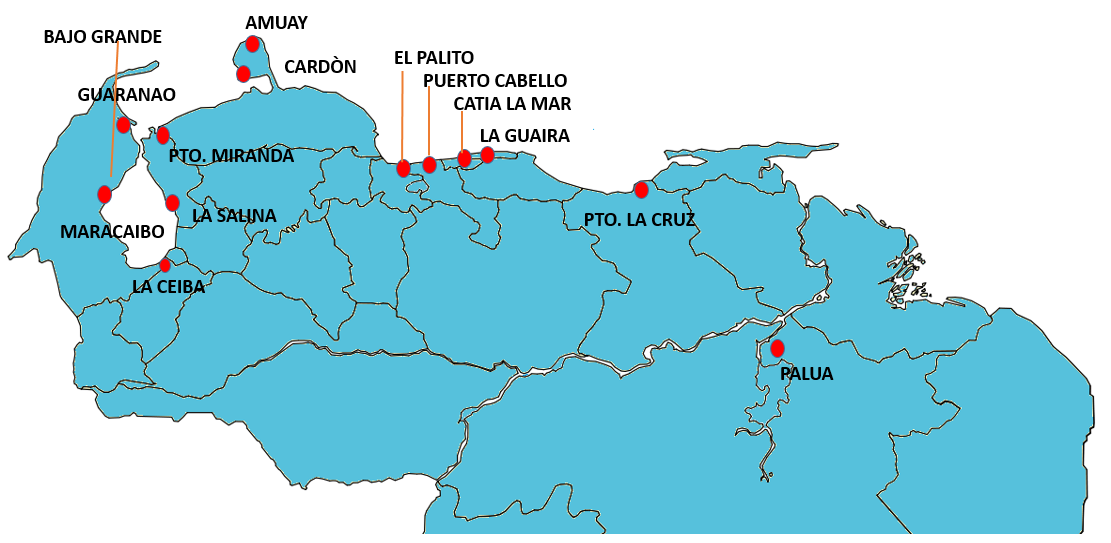
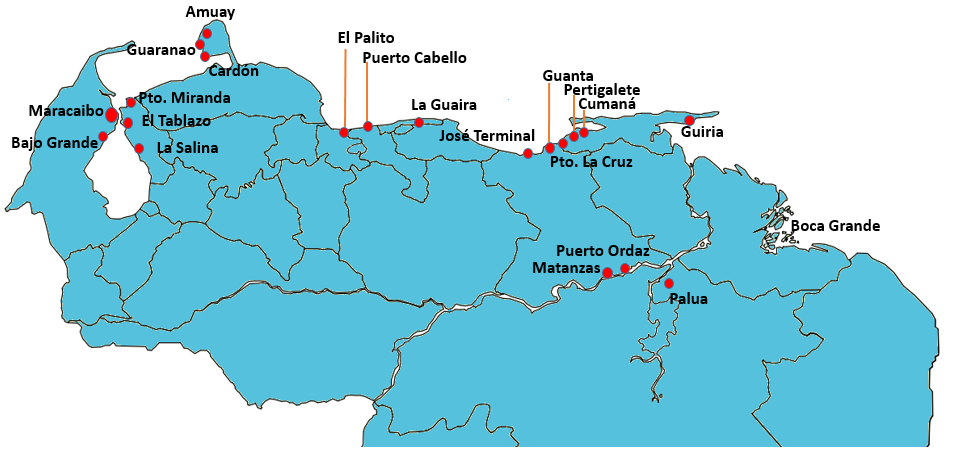
mejoras de mapa

diff --git a/mapaVenezuela.php b/mapaVenezuela.php
@@ -37,7 +37,7 @@
                 <center style="overflow-x: scroll;">
                  <img src="mapaVenezuela.png" name="mapaVen" usemap="#mapa" >
                     <map id="mapa" name="mapa">
-                        <area shape="rect" alt="guaranao" title="guaranao" id="guaranao" onclick="myFunction()" coords="115,110,131,135" href="" target="" />
+                       <!-- <area shape="rect" alt="guaranao" title="guaranao" id="guaranao" onclick="myFunction()" coords="115,110,131,135" href="" target="" />
                         <area shape="rect" alt="bajo grande" title="bajo grande" id="bajoGrande" onclick="myFunction()" coords="98,184,111,204" href="" target="" />
                         <area shape="rect" alt="la ceiba" title="la ceiba" id="laCeiba" onclick="myFunction()" coords="156,257,173,273" href="" target="" />
                         <area shape="rect" alt="pto. miranda" title="pto. miranda" id="ptoMiranda" onclick="myFunction()" coords="157,123,169,146" href="" target="" />
@@ -50,6 +50,32 @@
                         <area shape="rect" alt="pto. la cruz" title="pto. la cruz" id="ptoLaCruz" onclick="myFunction()" coords="632,180,648,197" href="" target="" />
                         <area shape="rect" alt="palua" title="palua" id="palua" onclick="myFunction()" coords="769,339,784,356" href="" target="" />
                         <area shape="rect" alt="la salina" title="la salina" id="laSalina" onclick="myFunction()" coords="164,187,180,210" href="" target="" />
+-->
+
+
+
+
+
+                        <area shape="rect" alt="Maracaibo" title="Maracaibo" id="Maracaibo" onclick="myFunction()" coords="106,107,116,122" href="" target="" />
+                        <area shape="rect" alt="Bajo Grande" title="Bajo Grande" id="BajoGrande" onclick="myFunction()" coords="95,130,108,140" href="" target="" />
+                        <area shape="rect" alt="La Salina" title="La Salina" id="LaSalina" onclick="myFunction()" coords="134,141,144,152" href="" target="" />
+                        <area shape="rect" alt="El Tablazo" title="El Tablazo" id="ElTablazo" onclick="myFunction()" coords="122,117,133,130" href="" target="" />
+                        <area shape="rect" alt="Pto. Miranda" title="Pto. Miranda" id="PtoMiranda" onclick="myFunction()" coords="123,96,134,108" href="" target="" />
+                        <area shape="rect" alt="Cardon" title="Cardon" id="Cardon" onclick="myFunction()" coords="200,50,209,62" href="" target="" />
+                        <area shape="rect" alt="Guaranao" title="Guaranao" id="Guaranao" onclick="myFunction()" coords="193,38,204,48" href="" target="" />
+                        <area shape="rect" alt="Amuay" title="Amuay" id="Amuay" onclick="myFunction()" coords="203,27,213,36" href="" target="" />
+                        <area shape="rect" alt="El Palito" title="El Palito" id="ElPalito" onclick="myFunction()" coords="333,121,349,138" href="" target="" />
+                        <area shape="rect" alt="Puerto Cabello" title="Puerto Cabello" id="PuertoCabello" onclick="myFunction()" onclick="myFunction()" coords="360,117,375,133" href="" target="" />
+                        <area shape="rect" alt="La Guaira" title="La Guaira" id="LaGuaira" onclick="myFunction()" coords="413,116,427,130" href="" target="" />
+                        <area shape="rect" alt="Jose Terminal" title="Jose Terminal" id="JoseTerminal" onclick="myFunction()" coords="521,146,533,160" href="" target="" />
+                        <area shape="rect" alt="Guanta" title="Guanta" id="Guanta" onclick="myFunction()" coords="543,134,555,154" href="" target="" />
+                        <area shape="rect" alt="Puerto La Cruz" title="Puerto La Cruz" id="PuertoLaCruz" onclick="myFunction()" coords="558,129,567,150" href="" target="" />
+                        <area shape="rect" alt="Pertigalete" title="Pertigalete" id="Pertigalete" onclick="myFunction()" coords="568,122,577,143" href="" target="" />
+                        <area shape="rect" alt="Cumana" title="Cumana" id="Cumana" onclick="myFunction()" coords="580,121,588,142" href="" target="" />
+                        <area shape="rect" alt="Guiria" title="Guiria" id="Guiria" onclick="myFunction()" coords="684,113,696,131" href="" target="" />
+                        <area shape="rect" alt="Matanzas" title="Matanzas" id="Matanzas" onclick="myFunction()" coords="600,259,613,286" href="" target="" />
+                        <area shape="rect" alt="Puerto Ordaz" title="Puerto Ordaz" id="PuertoOrdaz" onclick="myFunction()" coords="617,251,630,276" href="" target="" />
+                        <area shape="rect" alt="Palua" title="Palua" id="Palua" onclick="myFunction()" coords="662,264,674,293" href="" target="" />
                     </map>
                 </center>
 		
@@ -57,62 +83,105 @@
 
 
                <div style="display: none;">
-                    <div id="myContentguaranao">
-                        <img src="images/guaranaoMin.png" class="img-responsive">
-                        <a href="images/tablaGuaranao.jpg" class="btn btn-default" ><?php if($leng=="Es"){echo "Ver Mas";}else{echo "Show More";}?></a>
-                        <a href="tablaGuaranao.xlsx" class="btn btn-default" style="float: right;"><?php if($leng=="Es"){echo "Descargar";}else{echo "Download";}?></a>
-                    </div>
-                    <div id="myContentbajoGrande">
-                    	<img src="images/maracaiboMin.png" class="img-responsive"> 
-                    	<a href="images/tablaMaracaibo.jpg" class="btn btn-default" ><?php if($leng=="Es"){echo "Ver Mas";}else{echo "Show More";}?></a>
-                        <a href="tablaMaracaibo.xlsx" class="btn btn-default" style="float: right;"><?php if($leng=="Es"){echo "Descargar";}else{echo "Download";}?></a>
-                    </div>
-                    <div id="myContentlaCeiba">
-                    	<img src="images/maracaiboMin.png" class="img-responsive">
-                         <a href="images/tablaMaracaibo.jpg" class="btn btn-default" ><?php if($leng=="Es"){echo "Ver Mas";}else{echo "Show More";}?></a>
-                        <a href="tablaMaracaibo.xlsx" class="btn btn-default" style="float: right;"><?php if($leng=="Es"){echo "Descargar";}else{echo "Download";}?></a>
-                    </div>
-                    <div id="myContentlaSalina">
-                  	  	<img src="images/maracaiboMin.png" class="img-responsive">
+                    <div id="myContentMaracaibo">
+                        <img src="images/MaracaiboMin.png" class="img-responsive">
                         <a href="images/tablaMaracaibo.jpg" class="btn btn-default" ><?php if($leng=="Es"){echo "Ver Mas";}else{echo "Show More";}?></a>
                         <a href="tablaMaracaibo.xlsx" class="btn btn-default" style="float: right;"><?php if($leng=="Es"){echo "Descargar";}else{echo "Download";}?></a>
                     </div>
-                    <div id="myContentptoMiranda">
-                		<img src="images/maracaiboMin.png" class="img-responsive">
-                         <a href="images/tablaMaracaibo.jpg" class="btn btn-default" ><?php if($leng=="Es"){echo "Ver Mas";}else{echo "Show More";}?></a>
-                        <a href="tablaMaracaibo.xlsx" class="btn btn-default" style="float: right;"><?php if($leng=="Es"){echo "Descargar";}else{echo "Download";}?></a>
+                    <div id="myContentBajoGrande">
+                        <img src="images/BajoGrandeMin.png" class="img-responsive">
+                        <a href="images/tablaBajoGrande.jpg" class="btn btn-default" ><?php if($leng=="Es"){echo "Ver Mas";}else{echo "Show More";}?></a>
+                        <a href="tablaBajoGrande.xlsx" class="btn btn-default" style="float: right;"><?php if($leng=="Es"){echo "Descargar";}else{echo "Download";}?></a>
                     </div>
-                    <div id="myContentcardon">
-                        <img src="images/cardonMin.png" class="img-responsive">
-                         <a href="images/tablaCardon.jpg" class="btn btn-default" ><?php if($leng=="Es"){echo "Ver Mas";}else{echo "Show More";}?></a>
+                    <div id="myContentLaSalina">
+                        <img src="images/LaSalinaMin.png" class="img-responsive">
+                        <a href="images/tablaLaSalina.jpg" class="btn btn-default" ><?php if($leng=="Es"){echo "Ver Mas";}else{echo "Show More";}?></a>
+                        <a href="tablaLaSalina.xlsx" class="btn btn-default" style="float: right;"><?php if($leng=="Es"){echo "Descargar";}else{echo "Download";}?></a>
+                    </div>
+                    <div id="myContentElTablazo">
+                        <img src="images/ElTablazoMin.png" class="img-responsive">
+                        <a href="images/tablaElTablazo.jpg" class="btn btn-default" ><?php if($leng=="Es"){echo "Ver Mas";}else{echo "Show More";}?></a>
+                        <a href="tablaElTablazo.xlsx" class="btn btn-default" style="float: right;"><?php if($leng=="Es"){echo "Descargar";}else{echo "Download";}?></a>
+                    </div>
+                    <div id="myContentPtoMiranda">
+                        <img src="images/PtoMirandaMin.png" class="img-responsive">
+                        <a href="images/tablaPtoMiranda.jpg" class="btn btn-default" ><?php if($leng=="Es"){echo "Ver Mas";}else{echo "Show More";}?></a>
+                        <a href="tablaPtoMiranda.xlsx" class="btn btn-default" style="float: right;"><?php if($leng=="Es"){echo "Descargar";}else{echo "Download";}?></a>
+                    </div>
+                    <div id="myContentCardon">
+                        <img src="images/CardonMin.png" class="img-responsive">
+                        <a href="images/tablaCardon.jpg" class="btn btn-default" ><?php if($leng=="Es"){echo "Ver Mas";}else{echo "Show More";}?></a>
                         <a href="tablaCardon.xlsx" class="btn btn-default" style="float: right;"><?php if($leng=="Es"){echo "Descargar";}else{echo "Download";}?></a>
                     </div>
-                    <div id="myContentamuay">
-                        <img src="images/amuayMin.png" class="img-responsive">
-                         <a href="images/tablaAmuay.jpg" class="btn btn-default" ><?php if($leng=="Es"){echo "Ver Mas";}else{echo "Show More";}?></a>
+                    <div id="myContentGuaranao">
+                        <img src="images/GuaranaoMin.png" class="img-responsive">
+                        <a href="images/tablaGuaranao.jpg" class="btn btn-default" ><?php if($leng=="Es"){echo "Ver Mas";}else{echo "Show More";}?></a>
+                        <a href="tablaGuaranao.xlsx" class="btn btn-default" style="float: right;"><?php if($leng=="Es"){echo "Descargar";}else{echo "Download";}?></a>
+                    </div>
+                    <div id="myContentAmuay">
+                        <img src="images/AmuayMin.png" class="img-responsive">
+                        <a href="images/tablaAmuay.jpg" class="btn btn-default" ><?php if($leng=="Es"){echo "Ver Mas";}else{echo "Show More";}?></a>
                         <a href="tablaAmuay.xlsx" class="btn btn-default" style="float: right;"><?php if($leng=="Es"){echo "Descargar";}else{echo "Download";}?></a>
                     </div>
-                    <div id="myContentelPalito">
-                        <img src="images/elPalitoMin.png" class="img-responsive">
-                         <a href="images/tablaElPalito.jpg" class="btn btn-default" ><?php if($leng=="Es"){echo "Ver Mas";}else{echo "Show More";}?></a>
+                    <div id="myContentElPalito">
+                        <img src="images/ElPalitoMin.png" class="img-responsive">
+                        <a href="images/tablaElPalito.jpg" class="btn btn-default" ><?php if($leng=="Es"){echo "Ver Mas";}else{echo "Show More";}?></a>
                         <a href="tablaElPalito.xlsx" class="btn btn-default" style="float: right;"><?php if($leng=="Es"){echo "Descargar";}else{echo "Download";}?></a>
                     </div>
-                    <div id="myContentpuertoCabello">
-                      <img src="images/puertoCabelloMin.png" class="img-responsive">
-                         <a href="images/tablaPuertoCabello.jpg" class="btn btn-default" ><?php if($leng=="Es"){echo "Ver Mas";}else{echo "Show More";}?></a>
+                    <div id="myContentPuertoCabello">
+                        <img src="images/PuertoCabelloMin.png" class="img-responsive">
+                        <a href="images/tablaPuertoCabello.jpg" class="btn btn-default" ><?php if($leng=="Es"){echo "Ver Mas";}else{echo "Show More";}?></a>
                         <a href="tablaPuertoCabello.xlsx" class="btn btn-default" style="float: right;"><?php if($leng=="Es"){echo "Descargar";}else{echo "Download";}?></a>
                     </div>
-                    <div id="myContentcatiaLaMar">
-                        <a href="#"></a>
+                    <div id="myContentLaGuaira">
+                        <img src="images/LaGuairaMin.png" class="img-responsive">
+                        <a href="images/tablaLaGuaira.jpg" class="btn btn-default" ><?php if($leng=="Es"){echo "Ver Mas";}else{echo "Show More";}?></a>
+                        <a href="tablaLaGuaira.xlsx" class="btn btn-default" style="float: right;"><?php if($leng=="Es"){echo "Descargar";}else{echo "Download";}?></a>
                     </div>
-                    <div id="myContentlaGuaira">
-                        <a href="#"></a>
+                    <div id="myContentJoseTerminal">
+                        <img src="images/JoseTerminalMin.png" class="img-responsive">
+                        <a href="images/tablaJoseTerminal.jpg" class="btn btn-default" ><?php if($leng=="Es"){echo "Ver Mas";}else{echo "Show More";}?></a>
+                        <a href="tablaJoseTerminal.xlsx" class="btn btn-default" style="float: right;"><?php if($leng=="Es"){echo "Descargar";}else{echo "Download";}?></a>
                     </div>
-                    <div id="myContentptoLaCruz">
-                        <a href="#"></a>
+                    <div id="myContentGuanta">
+                        <img src="images/GuantaMin.png" class="img-responsive">
+                        <a href="images/tablaGuanta.jpg" class="btn btn-default" ><?php if($leng=="Es"){echo "Ver Mas";}else{echo "Show More";}?></a>
+                        <a href="tablaGuanta.xlsx" class="btn btn-default" style="float: right;"><?php if($leng=="Es"){echo "Descargar";}else{echo "Download";}?></a>
                     </div>
-                    <div id="myContentpalua">
-                        <a href="#"></a>
+                    <div id="myContentPuertoLaCruz">
+                        <img src="images/PuertoLaCruzMin.png" class="img-responsive">
+                        <a href="images/tablaPuertoLaCruz.jpg" class="btn btn-default" ><?php if($leng=="Es"){echo "Ver Mas";}else{echo "Show More";}?></a>
+                        <a href="tablaPuertoLaCruz.xlsx" class="btn btn-default" style="float: right;"><?php if($leng=="Es"){echo "Descargar";}else{echo "Download";}?></a>
+                    </div>
+                    <div id="myContentPertigalete">
+                        <img src="images/PertigaleteMin.png" class="img-responsive">
+                        <a href="images/tablaPertigalete.jpg" class="btn btn-default" ><?php if($leng=="Es"){echo "Ver Mas";}else{echo "Show More";}?></a>
+                        <a href="tablaPertigalete.xlsx" class="btn btn-default" style="float: right;"><?php if($leng=="Es"){echo "Descargar";}else{echo "Download";}?></a>
+                    </div>
+                    <div id="myContentCumana">
+                        <img src="images/CumanaMin.png" class="img-responsive">
+                        <a href="images/tablaCumana.jpg" class="btn btn-default" ><?php if($leng=="Es"){echo "Ver Mas";}else{echo "Show More";}?></a>
+                        <a href="tablaCumana.xlsx" class="btn btn-default" style="float: right;"><?php if($leng=="Es"){echo "Descargar";}else{echo "Download";}?></a>
+                    </div>
+                    <div id="myContentGuiria">
+                        <img src="images/GuiriaMin.png" class="img-responsive">
+                        <a href="images/tablaGuiria.jpg" class="btn btn-default" ><?php if($leng=="Es"){echo "Ver Mas";}else{echo "Show More";}?></a>
+                        <a href="tablaGuiria.xlsx" class="btn btn-default" style="float: right;"><?php if($leng=="Es"){echo "Descargar";}else{echo "Download";}?></a>
+                    </div>
+                    <div id="myContentMatanzas">
+                        <img src="images/MatanzasMin.png" class="img-responsive">
+                        <a href="images/tablaMatanzas.jpg" class="btn btn-default" ><?php if($leng=="Es"){echo "Ver Mas";}else{echo "Show More";}?></a>
+                        <a href="tablaMatanzas.xlsx" class="btn btn-default" style="float: right;"><?php if($leng=="Es"){echo "Descargar";}else{echo "Download";}?></a>
+                    </div>
+                    <div id="myContentPuertoOrdaz">
+                        <img src="images/PuertoOrdazMin.png" class="img-responsive">
+                        <a href="images/tablaPuertoOrdaz.jpg" class="btn btn-default" ><?php if($leng=="Es"){echo "Ver Mas";}else{echo "Show More";}?></a>
+                        <a href="tablaPuertoOrdaz.xlsx" class="btn btn-default" style="float: right;"><?php if($leng=="Es"){echo "Descargar";}else{echo "Download";}?></a>
+                    </div>
+                    <div id="myContentPalua">
+                        <img src="images/PaluaMin.png" class="img-responsive">
+                        <a href="images/tablaPalua.jpg" class="btn btn-default" ><?php if($leng=="Es"){echo "Ver Mas";}else{echo "Show More";}?></a>
+                        <a href="tablaPalua.xlsx" class="btn btn-default" style="float: right;"><?php if($leng=="Es"){echo "Descargar";}else{echo "Download";}?></a>
                     </div>
                </div>
 
@@ -125,19 +194,26 @@
 			(function(){
                 var tittle = "<?php if($leng=="Es"){echo "Metodo de Entrega por Puertos";}else{echo "Delivery method Ports";}?>";
 
-                $('#guaranao').webuiPopover({title:tittle,url:'#myContentguaranao'});
-                $('#bajoGrande').webuiPopover({title:tittle,url:'#myContentbajoGrande'});
-                $('#laCeiba').webuiPopover({title:tittle,url:'#myContentlaCeiba'});
-                $('#laSalina').webuiPopover({title:tittle,url:'#myContentlaSalina'});
-                $('#ptoMiranda').webuiPopover({title:tittle,url:'#myContentptoMiranda'});
-                $('#cardon').webuiPopover({title:tittle,url:'#myContentcardon'});
-                $('#amuay').webuiPopover({title:tittle,url:'#myContentamuay'});
-                $('#elPalito').webuiPopover({title:tittle,url:'#myContentelPalito'});
-                $('#puertoCabello').webuiPopover({title:tittle,url:'#myContentpuertoCabello'});
-                $('#catiaLaMar').webuiPopover({title:tittle,url:'#myContentcatiaLaMar'});
-                $('#laGuaira').webuiPopover({title:tittle,url:'#myContentlaGuaira'});
-                $('#ptoLaCruz').webuiPopover({title:tittle,url:'#myContentptoLaCruz'});
-                $('#palua').webuiPopover({title:tittle,url:'#myContentpalua'});
+                $('#Maracaibo').webuiPopover({title:tittle,url:'#myContentMaracaibo'});
+                $('#BajoGrande').webuiPopover({title:tittle,url:'#myContentBajoGrande'});
+                $('#LaSalina').webuiPopover({title:tittle,url:'#myContentLaSalina'});
+                $('#ElTablazo').webuiPopover({title:tittle,url:'#myContentElTablazo'});
+                $('#PtoMiranda').webuiPopover({title:tittle,url:'#myContentPtoMiranda'});
+                $('#Cardon').webuiPopover({title:tittle,url:'#myContentCardon'});
+                $('#Guaranao').webuiPopover({title:tittle,url:'#myContentGuaranao'});
+                $('#Amuay').webuiPopover({title:tittle,url:'#myContentAmuay'});
+                $('#ElPalito').webuiPopover({title:tittle,url:'#myContentElPalito'});
+                $('#PuertoCabello').webuiPopover({title:tittle,url:'#myContentPuertoCabello'});
+                $('#LaGuaira').webuiPopover({title:tittle,url:'#myContentLaGuaira'});
+                $('#JoseTerminal').webuiPopover({title:tittle,url:'#myContentJoseTerminal'});
+                $('#Guanta').webuiPopover({title:tittle,url:'#myContentGuanta'});
+                $('#PuertoLaCruz').webuiPopover({title:tittle,url:'#myContentPuertoLaCruz'});
+                $('#Pertigalete').webuiPopover({title:tittle,url:'#myContentPertigalete'});
+                $('#Cumana').webuiPopover({title:tittle,url:'#myContentCumana'});
+                $('#Guiria').webuiPopover({title:tittle,url:'#myContentGuiria'});
+                $('#Matanzas').webuiPopover({title:tittle,url:'#myContentMatanzas'});
+                $('#PuertoOrdaz').webuiPopover({title:tittle,url:'#myContentPuertoOrdaz'});
+                $('#Palua').webuiPopover({title:tittle,url:'#myContentPalua'});
             })();
             var c1;
             var c2;
